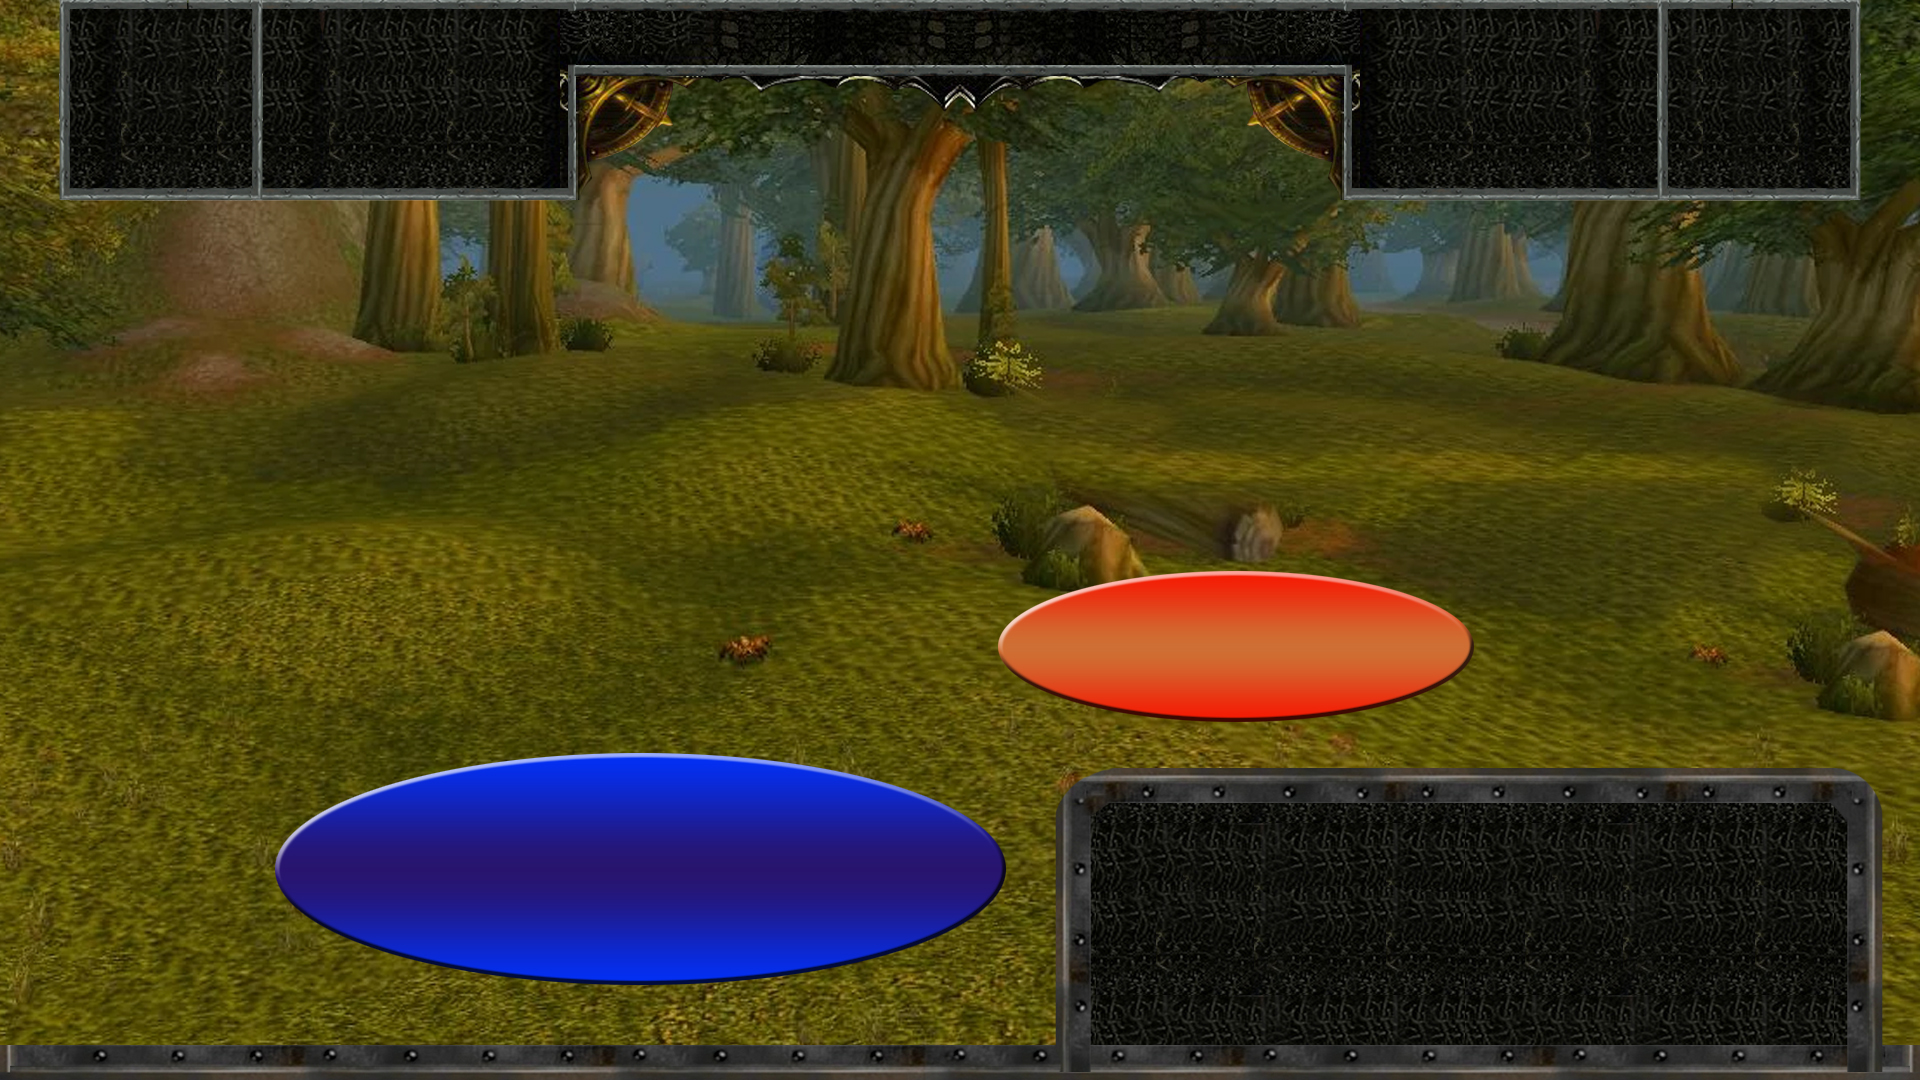
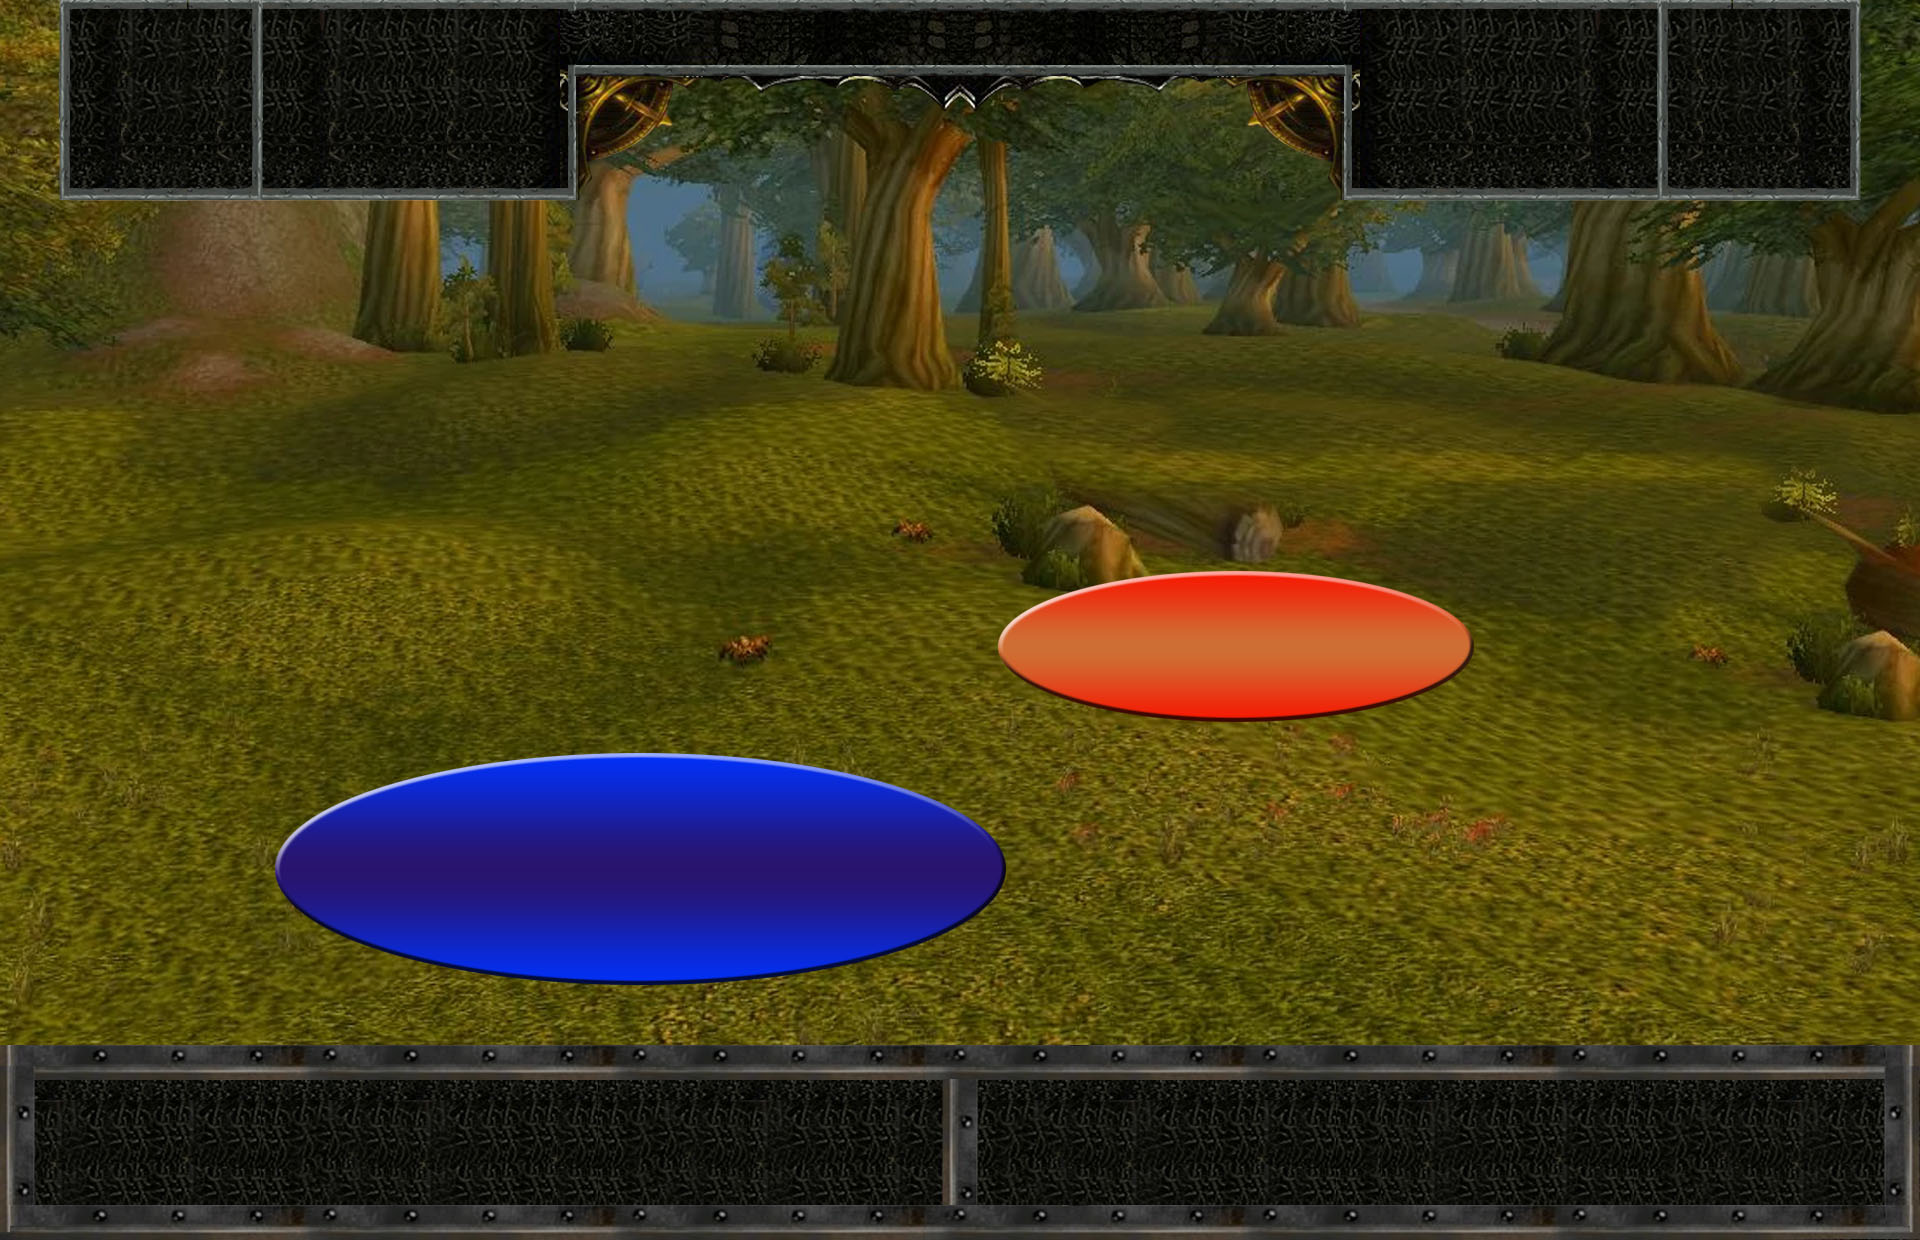
test css iphone

diff --git a/scripts/app.js b/scripts/app.js
@@ -4,8 +4,8 @@ let deadVerif = 0
 // for characteristics player
 
 let playerName = "Anduin"
-let playerHealth = 70
-let playerStrenght = 5
+let playerHealth = 100
+let playerStrenght = 10
 let playerXp = 10
 let playerId = 1
 
@@ -14,7 +14,7 @@ let playerId = 1
 
 let monsterName = "Orc"
 let monsterHealth = 100
-let monsterStrenght = 20
+let monsterStrenght = 15
 let monsterXp = 10
 let monsterId = 2
 
@@ -48,16 +48,16 @@ let character = {
 
       if (number <=8) {
         target.health -= this.strenght
-        actionText = "Vous attaquez " + target.name
+        actionText = this.name + " attaque " + target.name
         attacCharacter(this.id)
 
       } else if (number <=9) {
-        target.health -= this.strenght * 2
-        actionText = "Vous faites une attaque critique sur " + target.name + " !"
+        target.health -= this.strenght * 1.5
+        actionText = this.name + " fait une attaque critique sur " + target.name + " !"
         attacCharacter(this.id)
 
       } else {
-        actionText = "Vous avez raté votre attaque sur " + target.name + " !"
+        actionText = this.name + " a raté son attaque sur " + target.name + " !"
       }
       action.textContent = actionText
       document.getElementById("textWrite").appendChild(action)
@@ -83,25 +83,35 @@ let character = {
       scrollHeight ()
     },
     special: function (target) {
-      let number = Math.random()*2
-      console.log(number)
-      if (this.health >  0) {
-        if (target.health > 0){
-          if (number<1){
-            target.health -= this.strenght +10
-            console.log(this.name + " attaque " + target.name)
-            console.log("Il reste " + target.health + " de point de vie à " + target.name)
-          } else if (number>=1) {
-            target.health -= this.strenght - 5
-            console.log(this.name + " attaque " + target.name)
-            console.log("Il reste " + target.health + " de point de vie à " + target.name)
-          }
-        } else {
-          console.log(target.name + " est mort !")
-        }
+      let combatText = "COMBAT"
+
+      let combat = document.createElement("p")
+      combat.textContent = combatText
+      document.getElementById("textWrite").appendChild(combat)
+      scrollHeight ()
+
+      let actionText = ""
+      let action = document.createElement("p")
+      action.textContent = action
+
+      let number = Math.random()*10
+
+      if (number <=6) {
+        actionText = this.name + " ne réussit pas son attaque spéciale sur "+ target.name
+
+      } else if (number <=7) {
+        target.health -= this.strenght * 4
+        actionText = this.name + " fait une attaque spéciale sur " + target.name + " !"
+        specialCharacter(this.id)
+
       } else {
-        console.log(this.name + " est mort !")
+        this.health -= this.strenght * 2
+        actionText = "L'attaque spéciale de " + this.name + "se retourne contre lui !"
       }
+      action.textContent = actionText
+      document.getElementById("textWrite").appendChild(action)
+      scrollHeight ()
+
     },
 };
 
@@ -144,7 +154,7 @@ function attacCharacter(id) {
   } else {
     console.log("Erreur, pas d'animation d'attaque")
   }
-  animationTrue++
+  animationTrue = 1
   setTimeout(function() {
     readyCharacter(id)
     animationTrue = 0;
@@ -153,7 +163,6 @@ function attacCharacter(id) {
 function specialCharacter(id) {
   if (id === 1) {
     playerCharacter.setAttribute("src", "images/animation_character/Anduin_as.gif")
-    setTimeout(readyPlayer(id), 1000);
   } else if (id === 2) {
     console.log("Erreur")
   } else {
@@ -226,15 +235,31 @@ healClick.addEventListener(
     managementHealth ()
 }
 );
-
-
 let specialClick = document.querySelector("#special")
-  specialClick.addEventListener(
-    'click',
-    function specialClick(){
+
+specialClick.addEventListener(
+  'click',
+  function specialClick(){
+    if (animationTrue === 1 && deadVerif === 0) {
+      setTimeout(function() {
+        specialCharacter(this.id)
+      }, 1000)
+
+    } else if (animationTrue === 0 && deadVerif === 0){
       player.special(monster)
+    } else if (deadVerif === 1) {
+      deadStop()
+    } else {
+      console.log("erreur")
+    }
+    managementHealth ()
 }
 );
+
+
+
+
+
 // function divers
 // gestion vie
 function managementHealth () {

diff --git a/index.html b/index.html
@@ -34,16 +34,28 @@
         </div>
       </div>
       <div id="sorts">
-        <div id="attaque" class="button">
-          <image src="images/sorts/att.png" alt="Attaque"/>
+        <div id="sorts1" class="sortsPart">
+          <div id="attaque" class="button">
+            <image src="images/sorts/icon_attack.png" alt="Attaque"/>
+          </div>
+          <div id="heal" class="button">
+            <image src="images/sorts/icon_heal.png" alt="Soin"/>
+          </div>
+          <div id="special" class="button">
+            <image src="images/sorts/icon_attack_special.png" alt="Attaque spéciale"/>
+          </div>
         </div>
-        <div id="heal" class="button">
-          <image src="images/sorts/heal.png" alt="Soin"/>
+        <div id="sorts2" class="sortsPart">
+          <div id="defense" class="button">
+            <image src="images/sorts/icon_defense.png" alt="defense"/>
+          </div>
+          <div id="increase" class="button">
+            <image src="images/sorts/icon_increase.png" alt="increase"/>
+          </div>
+          <div id="decrase" class="button">
+            <image src="images/sorts/icon_decrase.png" alt="decrase"/>
+          </div>
         </div>
-        <div id="special" class="button">
-          <image src="images/sorts/as.png" alt="Attaque spéciale"/>
-        </div>
-      </div>
     </div>
     </main>
     <script src="scripts/app.js"></script>

diff --git a/styles/style.css b/styles/style.css
@@ -12,10 +12,12 @@ body {
   height: 50%;
   width: 90%;
   margin: auto;
+  background-image: url("../images/background.png");
   background-size: cover;
   position: relative;
 }
 #game #textContainer {
+  font-family: "Bebas Neue";
   position: absolute;
   left: 3%;
   top: 18%;
@@ -23,7 +25,6 @@ body {
   font-size: 0.8rem;
   width: 25%;
   height: 30%;
-  font-family: "Bebas neue"
 }
 #game #textContainer div {
   overflow-x: scroll;
@@ -100,25 +101,23 @@ body {
 #game #player {
   position: absolute;
   left: 20%;
-  bottom: 16%;
+  bottom: 28%;
 }
 
-#sorts {
+#sorts img {
+  width: 50%;
+}
+#sorts .sortsPart {
   display: flex;
-  margin: auto;
-  width: 35%;
-  margin-top: -20px;
+  align-items: flex-start;
   position: absolute;
-  bottom: 15%;
+  bottom: 3%;
+}
+#sorts #sorts1 {
+  left: 10%;
+}
+#sorts #sorts2 {
   right: 6%;
-}
-#sorts div {
-  height: 50px;
-  width: 150px;
-  text-align: center;
-}
-#sorts div img {
-  width: 80%;
 }
 
 /*# sourceMappingURL=style.css.map */

diff --git a/styles/style.scss b/styles/style.scss
@@ -9,7 +9,7 @@ body {
   padding: 0;
 }
 #game {
-  
+
   height: 50%;
   width: 90%;
   margin: auto;
@@ -17,6 +17,7 @@ body {
   background-size: cover;
   position: relative;
   #textContainer {
+		font-family: "Bebas Neue";
     position: absolute;
     left: 3%;
     top: 18%;
@@ -108,29 +109,31 @@ body {
     #player {
       position: absolute;
       left: 20%;
-      bottom: 16%;
+      bottom: 28%;
 
 
     }
 }
 
 #sorts {
-  display: flex;
-  margin: auto;
-  width: 35%;
-  margin-top: -20px;
-  position: absolute;
-  bottom: 15%;
-  right: 6%;
 
-  div{
-    height: 50px;
-    width: 150px;
-    text-align: center;
-    img {
-      width: 80%;
-    }
+	img {
+		width: 50%;
 
+	}
+	.sortsPart {
+		display: flex;
+		align-items: flex-start;
+		position: absolute;
+		bottom: 3%;
+	}
+  #sorts1 {
+		left: 10%;
   }
+	#sorts2 {
+		right: 6%;
+	}
 
+	#button {
+	}
 }
